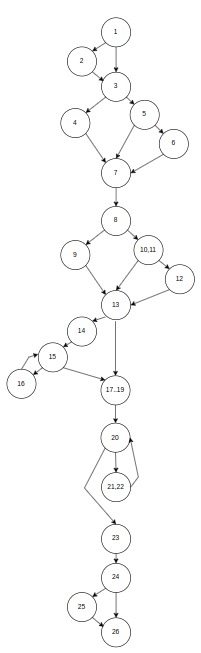
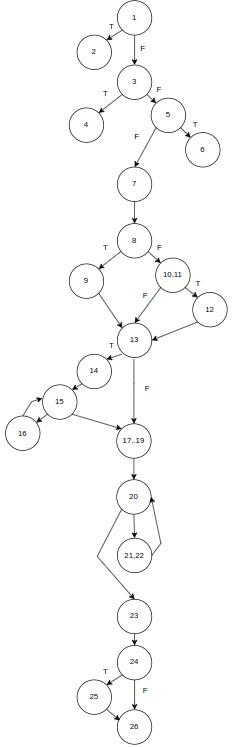
Modificatreadme si graf

Changed region(s): [[0.0, 0.0, 0.9851, 1.0], [0.4179, 0.7044, 0.4776, 0.7657], [0.3284, 0.9188, 0.3582, 0.9495]]

diff --git a/README.md b/README.md
@@ -161,6 +161,53 @@ public double TotalTripCost(double distanceInKm, int passengers, bool includeRes
 
 ![Diagrama](graf.jpeg)
 
-## Statement Testing
-## Decision Testing
-## Condition Testing
+## 4. Statement Testing
+Verificam daca fiecare instructiune din cod a fost executata cel putin o data.
+
+|   Intrari (d, p, r)   |   Expected    |
+| :---------: | :-----------: |
+| $(5 - \epsilon, \textunderscore, \textunderscore)$ | Testeaza ramura in care distanta este macar 5 kilometrii. |
+| $(10, 0, \textunderscore)$ | Testeaza ramura in care numarul de persoane este minim 1. |
+| $(10, 30, \textunderscore)$ | Testeaza ramura in care numarul de persoane este maxim 25. |
+| $(50, 1, False)$ | Testeaza ramura in care numarul de persoane este mai mic decat numarul maxim de persoane de baza si returneaza totalul de 32.7 |
+| $(600, 6, True)$ | Testeaza ramura in care numarul de persoane este mai mare decat numarul minim de persoane pentru discount, daca sunt incluse stopuri in calatorie si daca distanta este mai mare decat 500 de km iar returneaza totalul de 536.34 |
+
+## 5. Decision Testing
+Asiguram ca fiecare punct de decizie (de exemplu, instructiunile if) este evaluat atat pentru conditia adevarata, cat si pentru cea falsa.
+
+|   Intrari (d, p, r)   |   Expected    |
+| :---------: | :-----------: |
+| $(5 - \epsilon, \textunderscore, \textunderscore)$ | Testeaza ramura in care distanta este macar 5 kilometrii. |
+| $(10, 0, \textunderscore)$ | Testeaza ramura in care numarul de persoane este minim 1. |
+| $(10, 30, \textunderscore)$ | Testeaza ramura in care numarul de persoane este maxim 25. |
+| $(50, 1, False)$ | Testeaza ramura in care numarul de persoane este mai mic decat numarul maxim de persoane de baza si returneaza totalul de 32.7 |
+| $(600, 6, True)$ | Testeaza ramura in care numarul de persoane este mai mare decat numarul minim de persoane pentru discount, daca sunt incluse stopuri in calatorie si daca distanta este mai mare decat 500 de km iar returneaza totalul de 536.34 |
+
+## 6. Condition Testing
+Se concentreaza pe evaluarea fiecarei conditii individuale din cadrul unei decizii, asigurandu-se ca fiecare sub-conditie a fost testata pentru ambele valori logice(adevarat si fals).
+
+|   Intrari (d, p, r)   |   Expected    |
+| :---------: | :-----------: |
+| $(5 - \epsilon, \textunderscore, \textunderscore)$ | Cere ca distanta sa fie macar 5 kilometrii. |
+| $(5, 0, \textunderscore)$ | Cere ca numarul de persoane sa fie minim 1. |
+| $(100, 0, \textunderscore)$ | Cere ca numarul de persoane sa fie minim 1. |
+| $(750, 0, \textunderscore)$ | Cere ca numarul de persoane sa fie minim 1. |
+| $(5, 26, \textunderscore)$ | Cere ca numarul de persoane sa fie maxim 25. |
+| $(100, 26, \textunderscore)$ | Cere ca numarul de persoane sa fie maxim 25. |
+| $(750, 26, \textunderscore)$ | Cere ca numarul de persoane sa fie maxim 25. |
+| $(5, 1, True)$ | Se returneaza totalul de $4,05$. |
+| $(5, 1, False)$ | Se returneaza totalul de $4,05$. |
+| $(5, 3, True)$ | Se returneaza totalul de $3,8$. |
+| $(5, 3, False)$ | Se returneaza totalul de $3,8$. |
+| $(5, 6, True)$ | Se returneaza totalul de $3,55$. |
+| $(5, 6, False)$ | Se returneaza totalul de $3,55$. |
+| $(5, 25, True)$ | Se returneaza totalul de $3,55$. |
+| $(5, 25, False)$ | Se returneaza totalul de $3,55$. |
+| $(750, 1, True)$ | Se returneaza totalul de $714,8$. |
+| $(750, 1, False)$ | Se returneaza totalul de $504,8$. |
+| $(750, 3, True)$ | Se returneaza totalul de $677,3$. |
+| $(750, 3, False)$ | Se returneaza totalul de $467,3$. |
+| $(750, 6, True)$ | Se returneaza totalul de $671,79$. |
+| $(750, 6, False)$ | Se returneaza totalul de $451,29$. |
+| $(750, 25, True)$ | Se returneaza totalul de $671,79$. |
+| $(750, 25, False)$ | Se returneaza totalul de $451,29$. |
